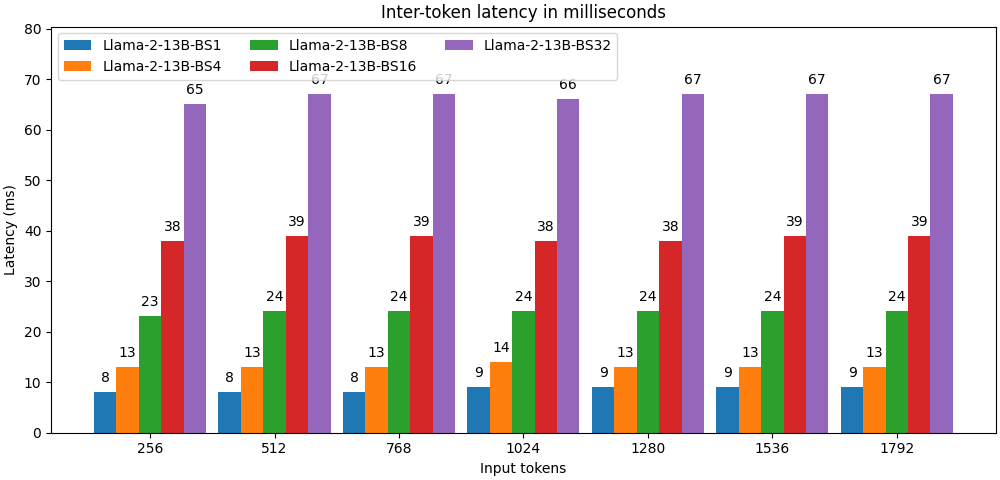
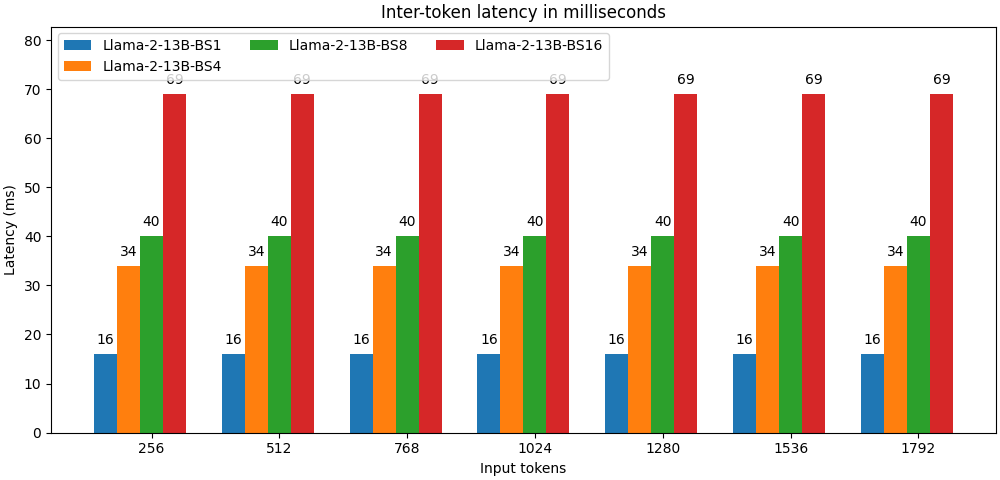
docs(benchmark): update Llama13B results on 8 cores

diff --git a/benchmark/text-generation/llama2-13b.py b/benchmark/text-generation/llama2-13b.py
@@ -8,7 +8,7 @@ from optimum.neuron.modeling_decoder import get_available_cores
 
 
 def main():
-    NUM_CORES = 24
+    NUM_CORES = 8
     num_cores = get_available_cores()
     if num_cores < NUM_CORES:
         raise ValueError(f"This benchmark can only run on an instance with at least {NUM_CORES} cores.")
@@ -18,7 +18,6 @@ def main():
         "Llama-2-13B-BS4": ["meta-llama/Llama-2-13b-chat-hf", 4, 4096],
         "Llama-2-13B-BS8": ["meta-llama/Llama-2-13b-chat-hf", 8, 4096],
         "Llama-2-13B-BS16": ["meta-llama/Llama-2-13b-chat-hf", 16, 4096],
-        "Llama-2-13B-BS32": ["meta-llama/Llama-2-13b-chat-hf", 32, 4096],
     }
 
     for model_name, model_configuration in model_configurations.items():
